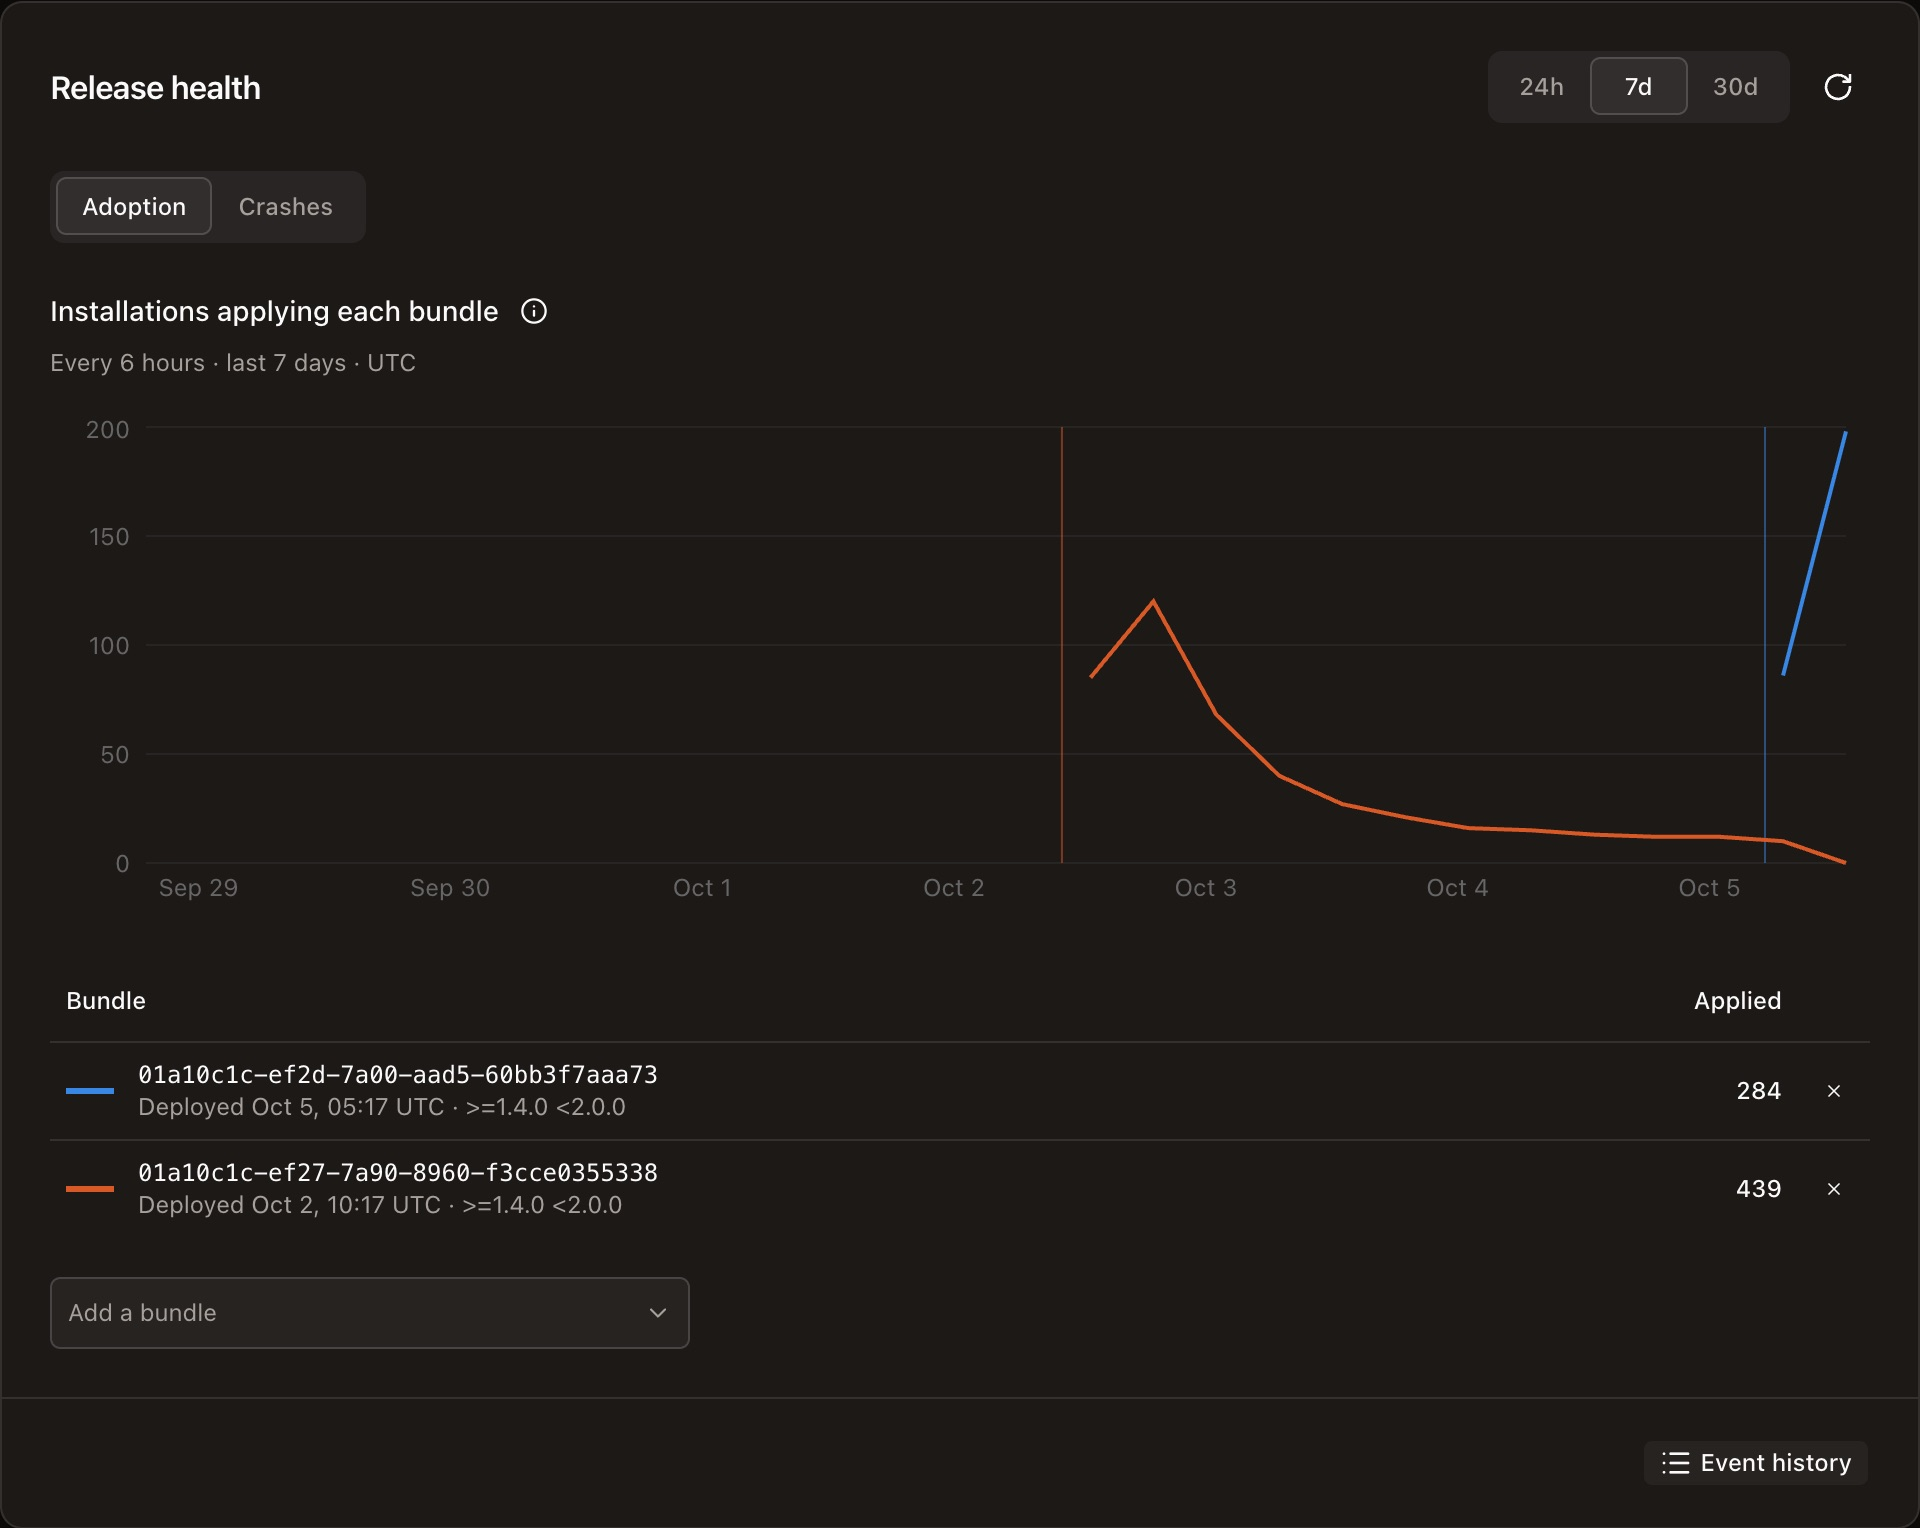
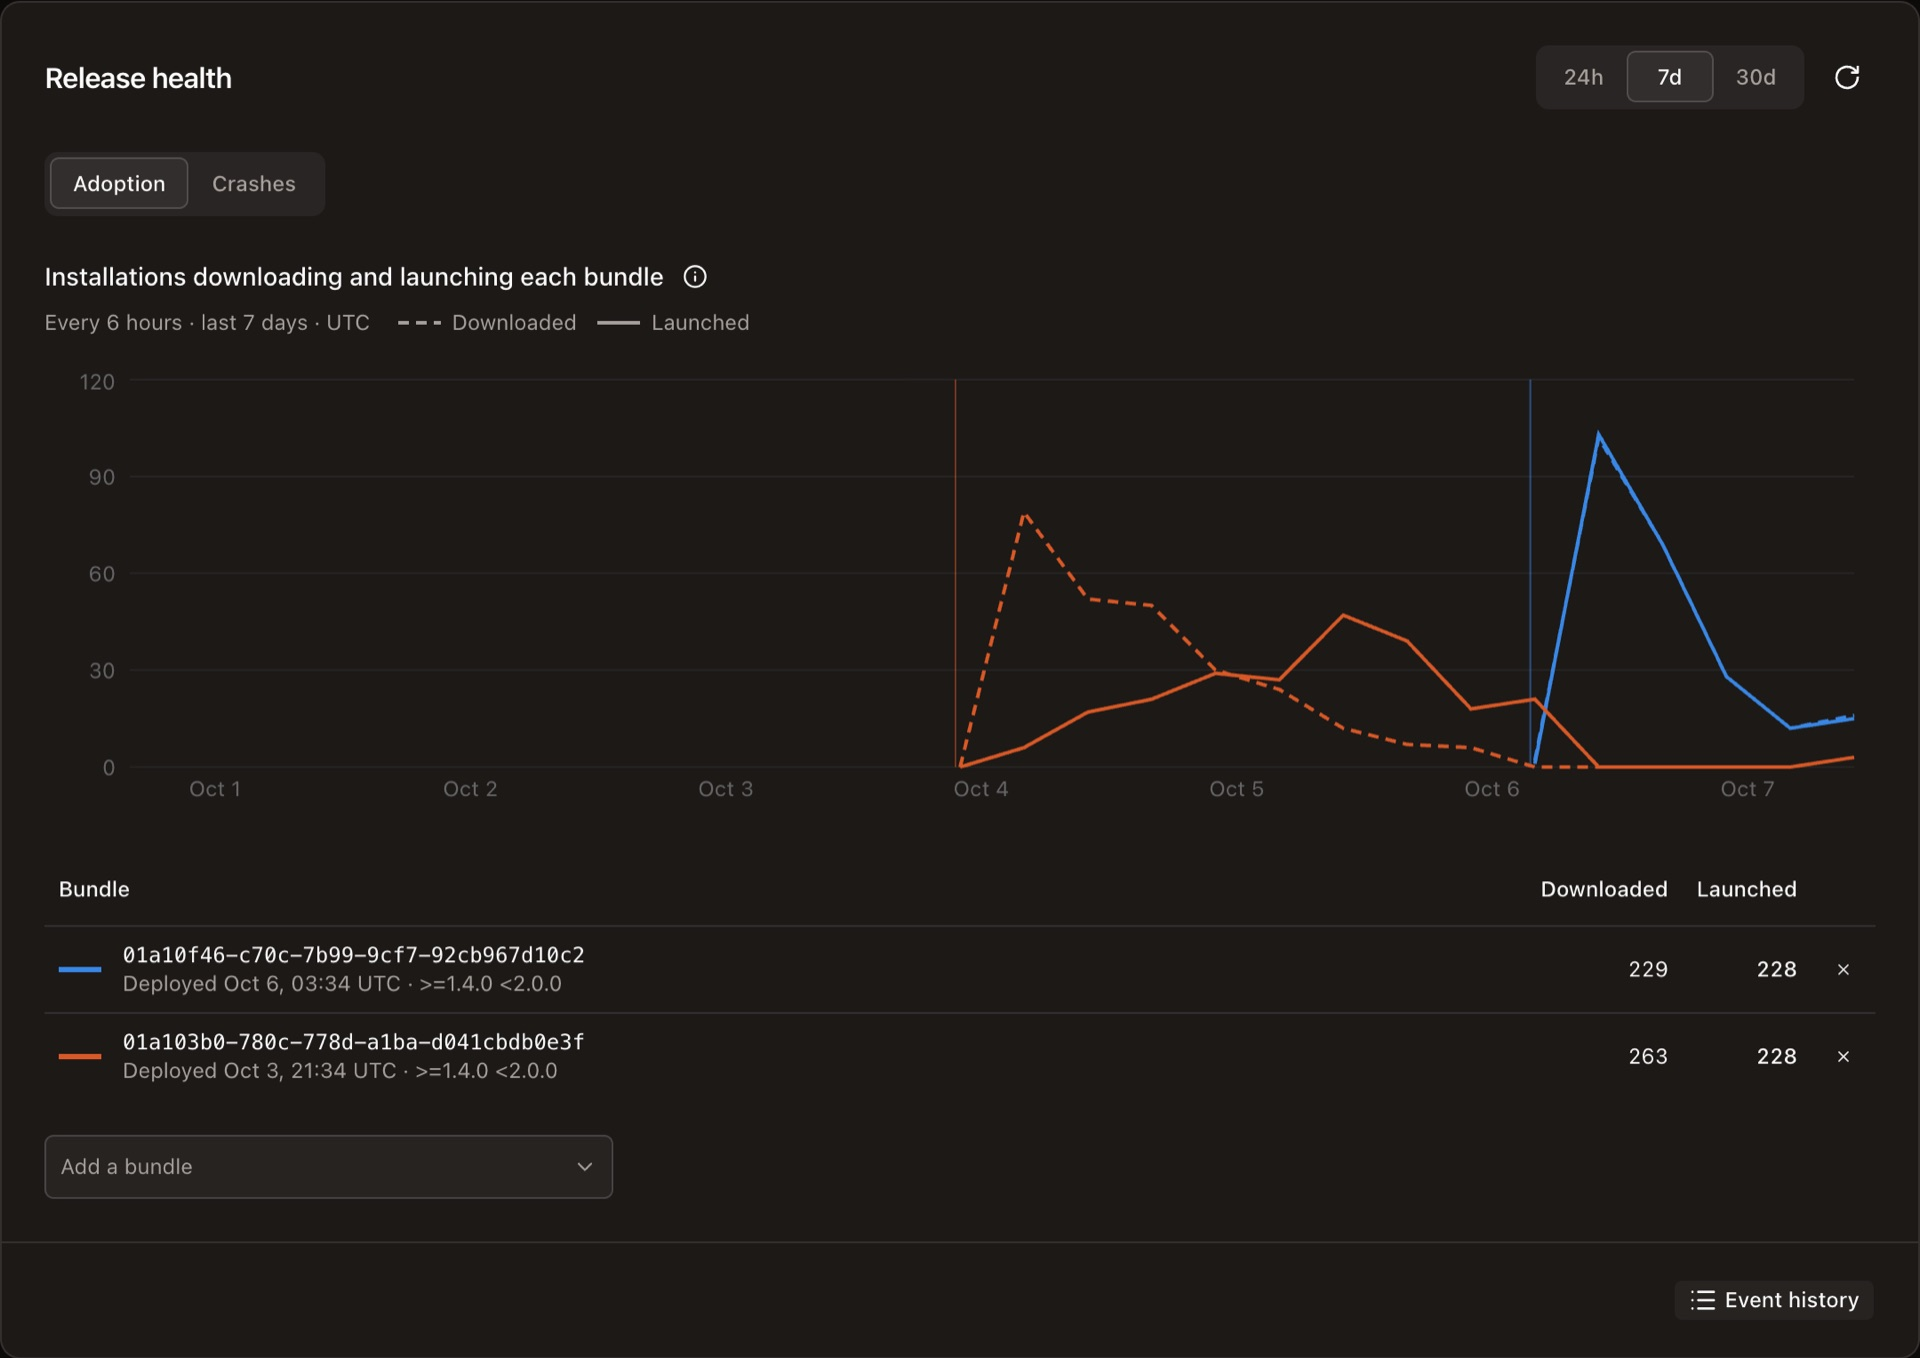
fix(console): name Release health's crash count Crashed, and show both Adoption lines in the docs image

diff --git a/packages/console/src/components/features/insights/InsightsOverview.tsx b/packages/console/src/components/features/insights/InsightsOverview.tsx
@@ -323,7 +323,7 @@ export function InsightsOverview({
         names={
           chart === "adoption"
             ? { solid: "Launched", dashed: "Downloaded" }
-            : { solid: "Crashes" }
+            : { solid: "Crashed" }
         }
         label={
           chart === "adoption"
@@ -446,7 +446,7 @@ export function InsightsOverview({
                       </>
                     ) : (
                       <>
-                        <TableHead className="text-right">Crashes</TableHead>
+                        <TableHead className="text-right">Crashed</TableHead>
                         <TableHead className="text-right">Crash rate</TableHead>
                       </>
                     )}

diff --git a/packages/console/src/components/features/insights/InsightsOverview.spec.tsx b/packages/console/src/components/features/insights/InsightsOverview.spec.tsx
@@ -288,6 +288,12 @@ describe("Release health", () => {
     expect(
       screen.getByLabelText("Crashes of each bundle per interval"),
     ).toBeDefined();
+    // Named as the bundle's activity names it.
+    expect(
+      within(screen.getByRole("table", { name: "Compared bundles" }))
+        .getAllByRole("columnheader")
+        .map((header) => header.textContent),
+    ).toEqual(["Bundle", "Crashed", "Crash rate", "Remove"]);
     expect(rows()).toEqual([
       "release-bDeployed Jan 1, 20:15 UTC · 1.2.0111.1%",
       "release-aDeployed Jan 1, 02:00 UTC · 1.2.000.0%",

diff --git a/packages/console/src/components/features/insights/EventDetails.spec.tsx b/packages/console/src/components/features/insights/EventDetails.spec.tsx
@@ -300,9 +300,7 @@ describe("Insights event details", () => {
       <EventTypeDetails event={{ type: "UPDATE_APPLIED" }} />,
     );
     expect(screen.getByText("Launched")).toBeDefined();
-    expect(screen.getByText("Launched").className).toContain(
-      "text-success",
-    );
+    expect(screen.getByText("Launched").className).toContain("text-success");
 
     view.rerender(<EventTypeDetails event={{ type: "RECOVERED" }} />);
     expect(screen.getByText("Crashed")).toBeDefined();

diff --git a/.changeset/insights-download-line.md b/.changeset/insights-download-line.md
@@ -10,6 +10,6 @@
 "@hot-updater/firebase": patch
 ---
 
-Release health's **Adoption** draws each bundle's downloads as a dashed line beside its launches, solid, in the bundle's color, per interval, and its table shows both counts for the period. After a forced update the two lines nearly meet; otherwise launches follow downloads as apps restart. The **Per interval** and **Cumulative** switch is gone, with its `adoptionTotal` URL value. The Console uses one vocabulary, Downloaded, Launched, and Crashed: event lists name `UPDATE_APPLIED` **Launched** and `RECOVERED` **Crashed**, a download waiting for a restart is **Not launched yet**, and the Release health and bundle tooltips are a sentence or two.
+Release health's **Adoption** draws each bundle's downloads as a dashed line beside its launches, solid, in the bundle's color, per interval, and its table shows both counts for the period. After a forced update the two lines nearly meet; otherwise launches follow downloads as apps restart. The **Per interval** and **Cumulative** switch is gone, with its `adoptionTotal` URL value. The Console uses one vocabulary, Downloaded, Launched, and Crashed: event lists name `UPDATE_APPLIED` **Launched** and `RECOVERED` **Crashed**, Release health's crash count is **Crashed**, a download waiting for a restart is **Not launched yet**, and the Release health and bundle tooltips are a sentence or two.
 
 A download that a launch or crash implied, when its download report never arrived, now counts in the bundle's `UPDATE_DOWNLOADED` outcome counter too, in the hour of that launch or crash. So `countEventSeries` and `countEvents` for a bundle's downloads cover the downloads its release counts, and the reporting overview's `downloadedReports` counts them in whole hours. The launch or crash stays the row, so a download filter's counter can exceed the download rows its hour holds. No table changes: no migration is needed.
